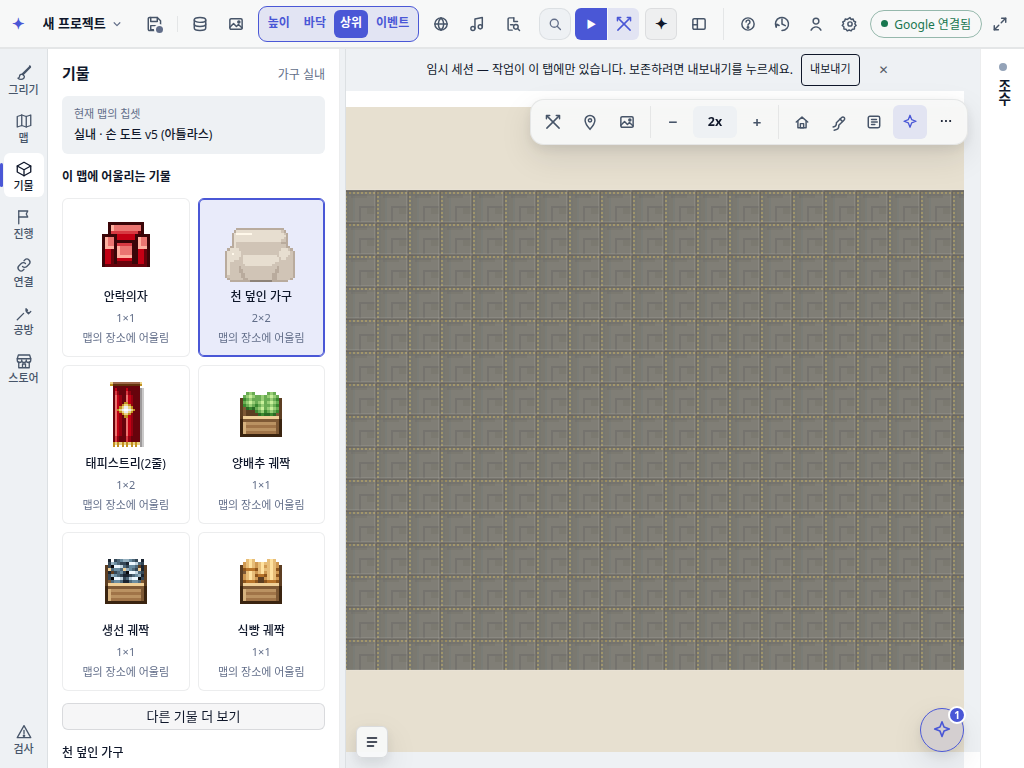
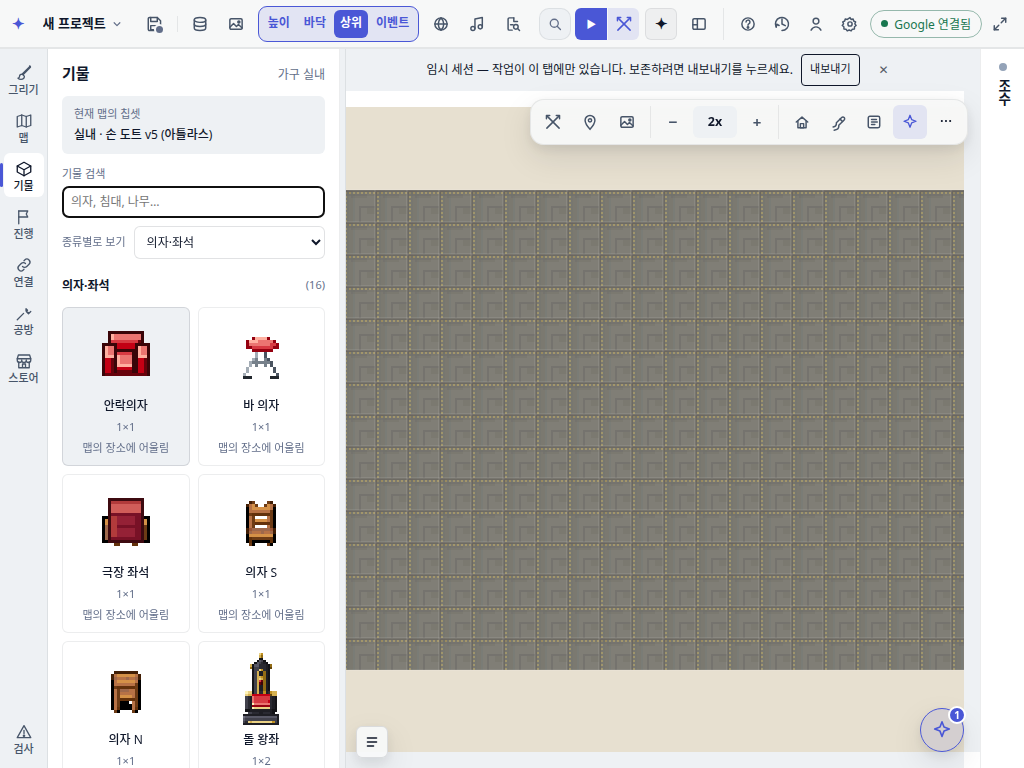
fix(editor): refine prop categories and record browser proof

Changed region(s): [[0.0625, 0.2188, 0.3125, 1.0]]

diff --git a/src/editor/propRecommendations.ts b/src/editor/propRecommendations.ts
@@ -10,7 +10,7 @@ import type { GameMap, TilesetDef } from "@/project/types";
 export const PROP_CATEGORIES = [
   { id: "seating", label: "의자·좌석", pattern: /의자|좌석|소파|걸상|스툴|벤치|왕좌|chair|seat|sofa|\bbench|stool|throne/i },
   { id: "tables", label: "탁자·책상", pattern: /탁자|식탁|책상|테이블|찻상|제단|작업대|조리대|진열대|카운터|계산대|접수대|table|desk|counter|altar|workbench/i },
-  { id: "beds", label: "침대", pattern: /침대|침상|bed/i },
+  { id: "beds", label: "침대", pattern: /(?<!받)침대|침상|(?:^|[\s:_-])bed(?:$|[\s:_-])/i },
   { id: "storage", label: "수납·상자", pattern: /책장|장롱|장식장|진열장|수납|찬장|서랍|궤짝|상자|금고|선반|보관함|걸이|통(?:$|\s)|chest|crate|cabinet|shelf|rack|bookcase|wardrobe|barrel/i },
   { id: "lighting", label: "조명", pattern: /촛|등불|가로등|램프|샹들리에|횃불|candle|lamp|torch|light|lantern/i },
   { id: "plants", label: "나무·식물", pattern: /나무|화분|꽃|수풀|식물|묘목|tree|plant|flower|bush|hedge/i },
@@ -25,7 +25,8 @@ export type PropCategoryId = (typeof PROP_CATEGORIES)[number]["id"];
 function propCategory(name: string, id: string, tags: readonly string[], role?: string, fallback: PropCategoryId = "other"): PropCategoryId {
   if (role && ["building", "castle", "fence", "roof", "terrain", "water", "wall"].includes(role)) return "structures";
   // Names identify the object; a shop/theme tag must not turn its chair into food or a building.
-  return PROP_CATEGORIES.find(category => category.pattern?.test(`${name} ${id}`))?.id
+  return PROP_CATEGORIES.find(category => category.pattern?.test(name))?.id
+    ?? PROP_CATEGORIES.find(category => category.pattern?.test(id))?.id
     ?? PROP_CATEGORIES.find(category => category.pattern?.test(tags.join(" ")))?.id ?? fallback;
 }
 

diff --git a/test/propRecommendations.test.ts b/test/propRecommendations.test.ts
@@ -48,4 +48,14 @@ describe("map prop recommendations", () => {
     expect(filterProps(entries, undefined, "작업대 7").map(entry => entry.choice.id)).toEqual(["workbench-7"]);
     expect(filterProps(entries, "beds", "의자")).toEqual([]);
   });
+  it("keeps pedestals out of beds and uses the object name before ambiguous ids", () => {
+    const { tileset } = fixture();
+    tileset.structureKits!.push(
+      { id: "key-pedestal", kind: "section", name: "열쇠 받침대", width: 1, height: 1, rows: [{ tiles: [5] }], ai: { description: "", placementRules: "", tags: ["JRPG 장치"] } },
+      { id: "flower-bed", kind: "section", name: "꽃 화분", width: 1, height: 1, rows: [{ tiles: [6] }] },
+    );
+    const choices = propsForTileset(tileset);
+    expect(choices.find(choice => choice.id === "key-pedestal")?.category).toBe("devices");
+    expect(choices.find(choice => choice.id === "flower-bed")?.category).toBe("plants");
+  });
 });

diff --git a/verify-shots/props-pane/SUMMARY.md b/verify-shots/props-pane/SUMMARY.md
@@ -7,6 +7,11 @@
 | 확인한 동작 | 관측 |
 | --- | --- |
 | 왼쪽 기물 열기 | 버들항 칩셋의 실제 기물 그림 6개 |
+| 종류별 보기 | 의자·좌석, 탁자·책상, 침대, 수납·상자, 조명, 나무·식물, 부엌·먹거리, 장치, 장식·소품, 건물·시설, 기타 |
+| 침대 종류 | 침대·침상만 표시, 열쇠 받침대를 침대로 분류하던 오류 수정 |
+| 전체 검색 | 첫 추천 6개에 없던 「2인 침대 파랑」을 검색해 선택, 검색 시작 시 전체 종류로 전환 |
+| 검색 중 입력 | 입력창 초점 유지 |
+| 결과 없는 검색 | 0개, 결과 없음 안내, 더 보기 숨김 |
 | 카드 선택 | 맵 타일 배열은 그대로, 출처 칩셋이 있는 스탬프 선택 |
 | 놓기·반복 놓기 | 과일 상자 실제 타일 9215 배치, 선택 유지 |
 | 두 번 되돌리기 | 각 배치를 한 번씩 취소해 원래 배열 복원 |
@@ -15,11 +20,13 @@
 | 이벤트 레이어에서 기물 선택 | 상위 타일 레이어로 전환 |
 | 2×2 천 덮인 가구 | 원본 4셀 6318·6319·6320·6321이 일치, 한 번의 undo로 복원 |
 | 1024×768 | 패널 및 문서 가로 넘침 없음 |
+| 패널 스크롤 | 검색과 종류 선택이 위에 남아 보임 |
 | 영어 표시 | Props/추천 안내 번역, 저작된 맵·칩셋·기물 이름 유지 |
 | 페이지 오류 | 0건 |
 
-원자료는 `observed.json`. 화면은 `01-default.png`, `02-indoor.png`, `03-compact.png`.
+원자료는 `observed.json`. 화면은 `01-default.png`, `02-indoor.png`, `03-compact.png`, `04-beds.png`, `05-search.png`.
 실내 화면은 칩셋 전환 확인용 사본이다. 배경은 기존 맵 배열을 유지하므로 완성된 실내 예제가 아니다.
 
 추천은 현재 칩셋의 기존 카탈로그와 저작된 맵·장소 이름/기물 메타데이터를 사용한다. AI 모델을 호출하지 않는다.
+종류 분류는 저작된 역할·기물 이름·id·태그로 정하며, 검색은 전체 호환 후보에서 수행한다.
 테스트·게이트·전체 typecheck는 저장소 세션 규칙에 따라 실행하지 않았다.
